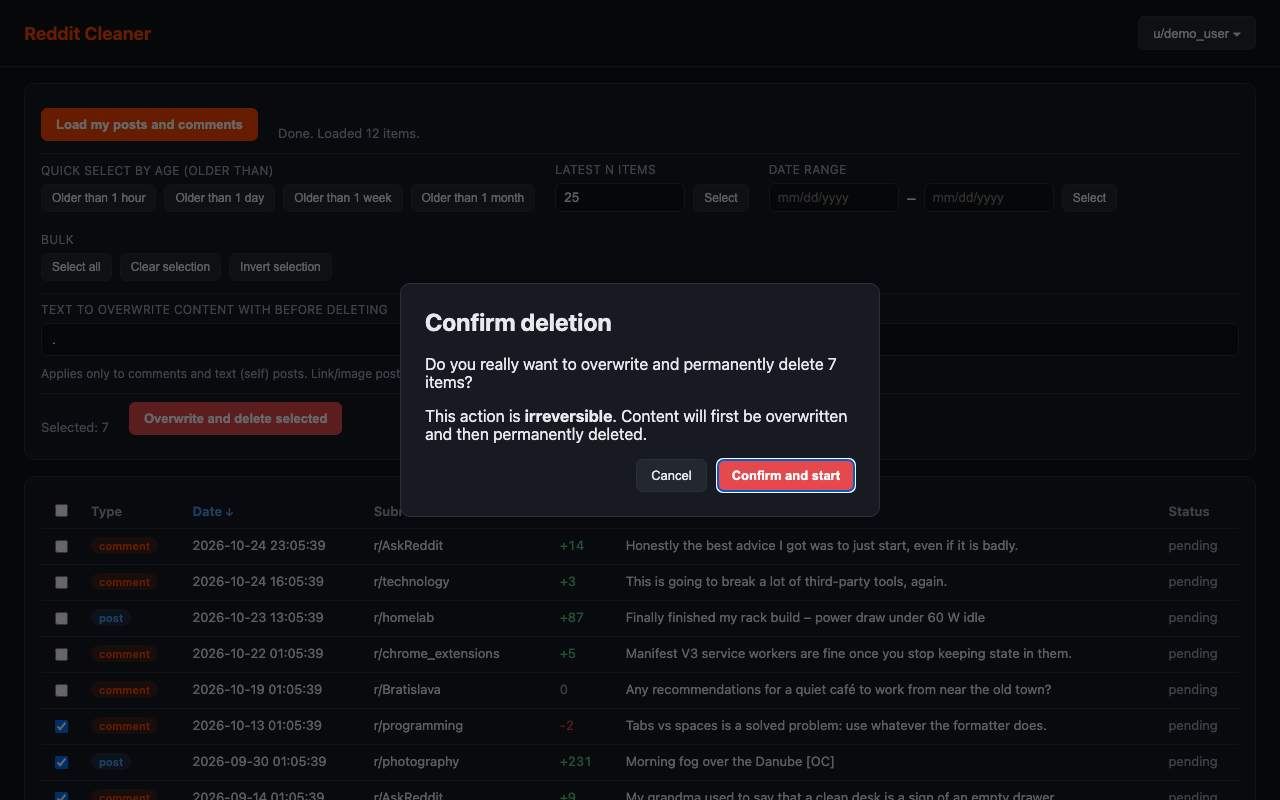
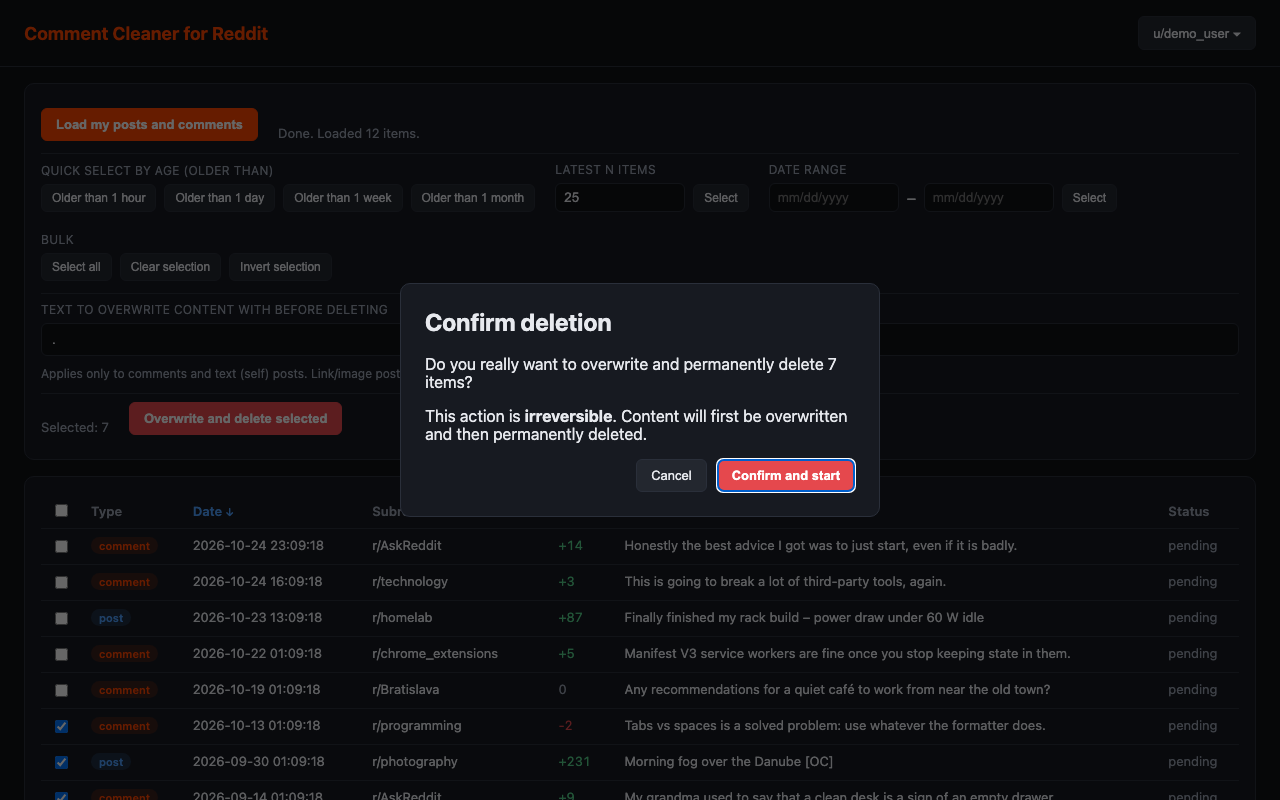
Rename extension to Comment Cleaner for Reddit and add contact email
- Rename in manifest, UI, README, privacy policy and store listing
- Add schrapnel@gmail.com as contact in PRIVACY.md and store listing
- Re-render store screenshots and promo tile with the new name
- Build output is now dist/comment-cleaner-for-reddit-<version>.zip

diff --git a/app.html b/app.html
@@ -2,12 +2,12 @@
 <html lang="en">
 <head>
 <meta charset="utf-8">
-<title>Reddit Cleaner</title>
+<title>Comment Cleaner for Reddit</title>
 <link rel="stylesheet" href="app.css">
 </head>
 <body>
 <header class="topbar">
-  <h1>Reddit Cleaner</h1>
+  <h1>Comment Cleaner for Reddit</h1>
   <div class="identity-wrap">
     <button id="identityBtn" class="identity-btn">Not logged in ▾</button>
     <div id="accountMenu" class="account-menu" hidden>

diff --git a/popup.html b/popup.html
@@ -2,7 +2,7 @@
 <html lang="en">
 <head>
 <meta charset="utf-8">
-<title>Reddit Cleaner</title>
+<title>Comment Cleaner for Reddit</title>
 <style>
   html, body { margin: 0; padding: 0; width: 1px; height: 1px; background: #0f1115; overflow: hidden; }
 </style>

diff --git a/store/listing.md b/store/listing.md
@@ -1,13 +1,13 @@
-# Chrome Web Store submission — Reddit Cleaner
+# Chrome Web Store submission — Comment Cleaner for Reddit
 
 Everything needed to fill in the Chrome Web Store Developer Dashboard, tab by tab.
-Upload package: `dist/reddit-cleaner-<version>.zip` (build with `./scripts/build.sh`).
+Upload package: `dist/comment-cleaner-for-reddit-<version>.zip` (build with `./scripts/build.sh`).
 
 ---
 
 ## Store listing tab
 
-**Name** (from manifest): Reddit Cleaner – Bulk Overwrite & Delete
+**Name** (from manifest): Comment Cleaner for Reddit
 
 **Summary** (manifest `description`, max 132 chars):
 
@@ -22,10 +22,10 @@ Upload package: `dist/reddit-cleaner-<version>.zip` (build with `./scripts/build
 ```
 Clean up your Reddit history in a few clicks.
 
-Reddit Cleaner loads every post and comment from your Reddit account into one sortable table, lets you pick exactly what should go, and then overwrites and deletes the selected items for you — one by one, respecting Reddit's rate limits.
+Comment Cleaner for Reddit loads every post and comment from your Reddit account into one sortable table, lets you pick exactly what should go, and then overwrites and deletes the selected items for you — one by one, respecting Reddit's rate limits.
 
 WHY OVERWRITE FIRST?
-Deleting a comment on Reddit removes your name, but copies of the original text can live on in third-party archives and caches. Reddit Cleaner first edits the content to a text of your choice (a single "." by default) and only then deletes it, so the last version Reddit stores is the overwritten one.
+Deleting a comment on Reddit removes your name, but copies of the original text can live on in third-party archives and caches. Comment Cleaner for Reddit first edits the content to a text of your choice (a single "." by default) and only then deletes it, so the last version Reddit stores is the overwritten one.
 
 FEATURES
 • Loads all your posts and comments (with subreddit, score, date and a content preview)
@@ -50,9 +50,10 @@ GOOD TO KNOW
 • Deletion is permanent — try it on a few old comments first.
 • Link and image posts cannot be edited through Reddit, so they are deleted without overwriting.
 • Switching accounts changes your Reddit login for the whole browser profile.
-• Reddit Cleaner is an independent project and is not affiliated with or endorsed by Reddit, Inc.
+• Comment Cleaner for Reddit is an independent project and is not affiliated with or endorsed by Reddit, Inc.
 
 Source code: https://github.com/rakuscinec/reddit-cleaner-extension
+Contact: schrapnel@gmail.com
 ```
 
 **Graphics** (in `store/assets/`):
@@ -70,6 +71,7 @@ Screenshots show the real UI with fictional demo data (account `u/demo_user`).
 
 **Homepage URL:** https://github.com/rakuscinec/reddit-cleaner-extension
 **Support URL:** https://github.com/rakuscinec/reddit-cleaner-extension/issues
+**Contact email** (Account tab, shown publicly on the listing): schrapnel@gmail.com
 
 ---
 
@@ -78,7 +80,7 @@ Screenshots show the real UI with fictional demo data (account `u/demo_user`).
 **Single purpose description:**
 
 ```
-Reddit Cleaner lets users bulk overwrite and delete their own Reddit posts and comments. It loads the signed-in user's posts and comments from reddit.com, lets the user select items (e.g. by date), and then edits and deletes the selected items on reddit.com. It can also store and switch between the user's Reddit login sessions so the user can clean up several of their own accounts.
+Comment Cleaner for Reddit lets users bulk overwrite and delete their own Reddit posts and comments. It loads the signed-in user's posts and comments from reddit.com, lets the user select items (e.g. by date), and then edits and deletes the selected items on reddit.com. It can also store and switch between the user's Reddit login sessions so the user can clean up several of their own accounts.
 ```
 
 ### Permission justifications

diff --git a/PRIVACY.md b/PRIVACY.md
@@ -1,9 +1,9 @@
-# Privacy Policy — Reddit Cleaner
+# Privacy Policy — Comment Cleaner for Reddit
 
 _Last updated: 25 October 2026_
 
-Reddit Cleaner (“the extension”) is a browser extension that helps you overwrite and delete your
-own Reddit posts and comments. This policy explains what data the extension handles and how.
+Comment Cleaner for Reddit (“the extension”) is a browser extension that helps you overwrite and
+delete your own Reddit posts and comments. This policy explains what data the extension handles and how.
 
 ## Summary
 
@@ -65,5 +65,7 @@ If this policy changes, the updated version will be published in this repository
 
 ## Contact
 
-Questions or concerns: open an issue at
-<https://github.com/rakuscinec/reddit-cleaner-extension/issues>.
+Questions or concerns about this policy or the extension:
+
+- Email: [schrapnel@gmail.com](mailto:schrapnel@gmail.com)
+- GitHub: <https://github.com/rakuscinec/reddit-cleaner-extension/issues>

diff --git a/README.md b/README.md
@@ -1,4 +1,4 @@
-# Reddit Cleaner
+# Comment Cleaner for Reddit
 
 A Brave/Chrome extension (Manifest V3) that loads all of your Reddit posts and comments, lets you
 sort and select them by date, and then bulk **overwrites** and **deletes** them.
@@ -89,12 +89,12 @@ talks to reddit.com and keeps everything in your browser.
 ./scripts/build.sh
 ```
 
-Creates `dist/reddit-cleaner-<version>.zip` containing only the files the extension needs.
+Creates `dist/comment-cleaner-for-reddit-<version>.zip` containing only the files the extension needs.
 Store listing texts, permission justifications and graphics live in [`store/`](store/).
 
 Icons are rendered from `icons/icon.svg` (48/128 px) and `icons/icon-small.svg` (16/32 px).
 
 ## Disclaimer
 
-Reddit Cleaner is an independent project and is not affiliated with, endorsed or sponsored by
+Comment Cleaner for Reddit is an independent project and is not affiliated with, endorsed or sponsored by
 Reddit, Inc.
